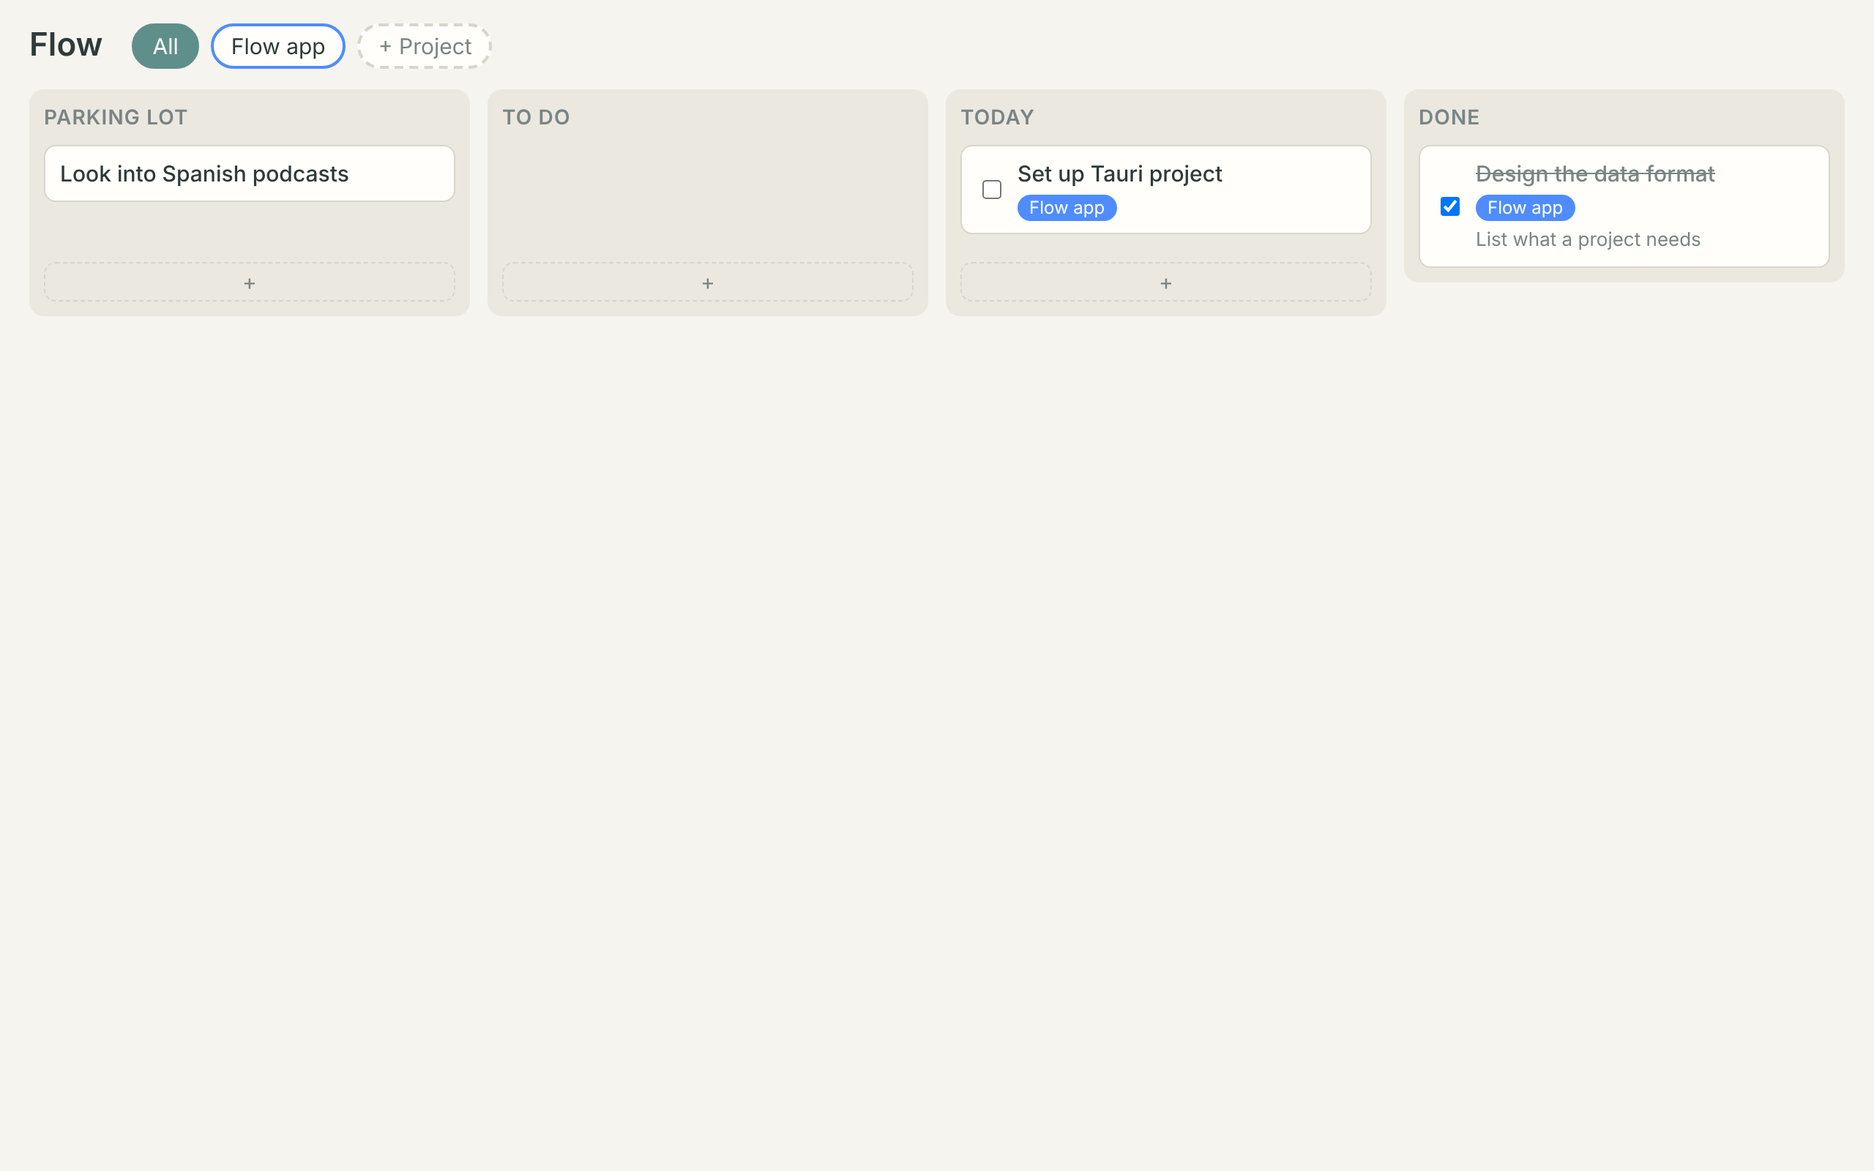
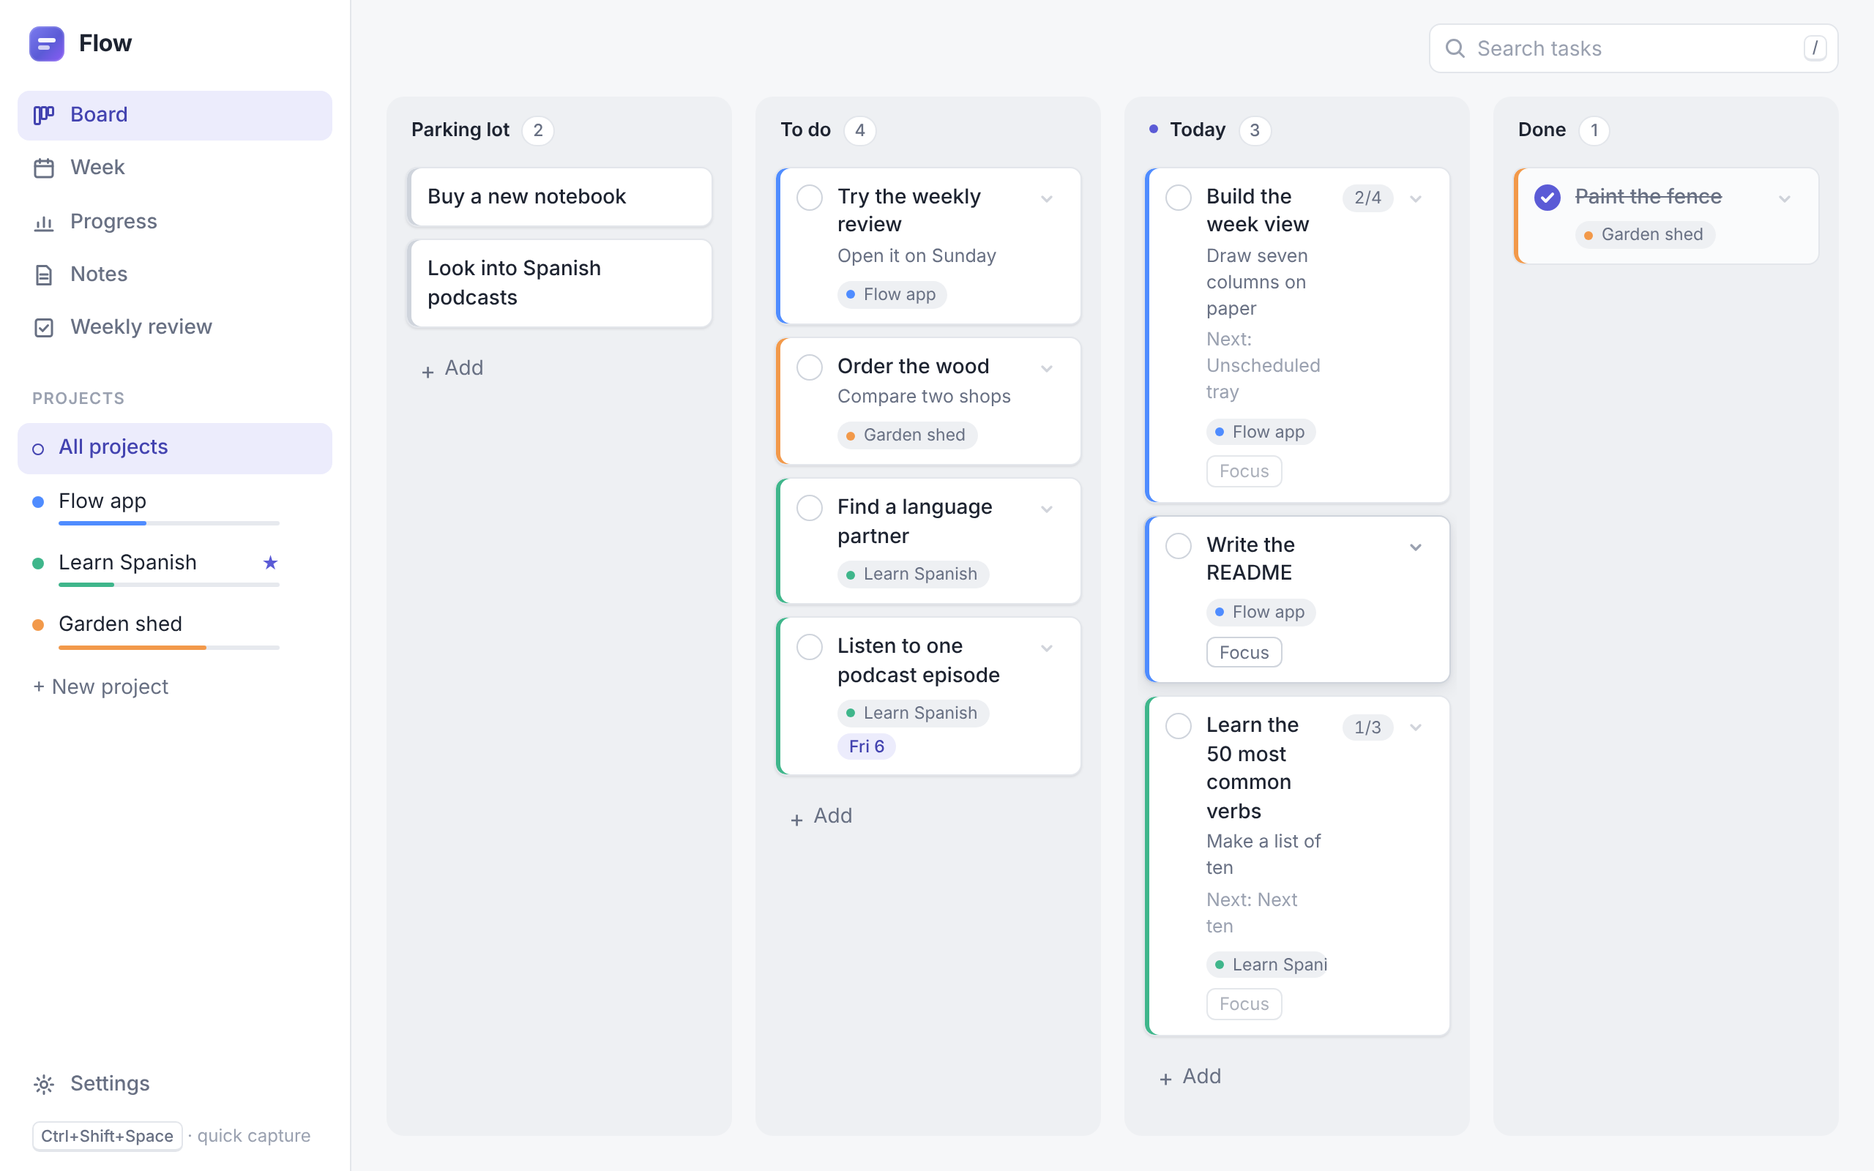
docs: v0.2 README, screenshots, smoke; bump to 0.2.0
Richer browser seed data, README_TEXT documents steps/scheduled, week view tray/title CSS fix.

Claude-Session: https://claude.ai/code/session_01Voacjw55tMHdZutBvqAuuX

diff --git a/src/main.tsx b/src/main.tsx
@@ -2,6 +2,7 @@ import { StrictMode, type ComponentProps } from 'react'
 import { createRoot } from 'react-dom/client'
 import App from './App.tsx'
 import { addInboxItem } from './model/inbox'
+import { addDays, isoWeek, localDate } from './model/dates'
 import FolderSetup from './ui/FolderSetup'
 import QuickCapture from './ui/QuickCapture'
 import { logIssue } from './storage/flowRepo'
@@ -9,46 +10,78 @@ import type { BoardApi } from './ui/Board'
 import { MemoryFileStore, type FileStore } from './storage/fileStore'
 import { MemorySettings } from './ui/settings'
 
-// Browser dev: in-memory store seeded with the spec's example files.
-const store = new MemoryFileStore({
-  'inbox.md': `---
-items:
-  - id: i1
-    text: Look into Spanish podcasts
-    created: 2026-11-03
----
-`,
-  'projects/flow-app.md': `---
-title: Flow app
-status: active
-color: "#4f8cff"
-goal: Build my own ADHD-friendly planner
-created: 2026-11-03
-tasks:
-  - id: t1
-    title: Design the data format
-    status: done
-    first_step: List what a project needs
-    created: 2026-11-03
-    planned: 2026-11-03
-    done: 2026-11-03
-  - id: t2
-    title: Set up Tauri project
-    status: todo
-    created: 2026-11-03
-  - id: t3
-    title: Sketch the week view
-    status: todo
-    first_step: Draw seven columns on paper
-    created: 2026-11-03
-  - id: t4
-    title: Write the README
-    status: todo
-    created: 2026-11-03
----
-Free notes about the project.
-`,
-})
+// Browser dev: in-memory store seeded with example data, relative to today's local date.
+const q = (v: string) => JSON.stringify(v)
+interface SeedTask { id: string; title: string; status: 'todo' | 'today' | 'done'; first?: string; created: string; planned?: string; done?: string; scheduled?: string; steps?: [string, boolean][] }
+const taskYaml = (t: SeedTask) => [
+  `  - id: ${t.id}`,
+  `    title: ${q(t.title)}`,
+  `    status: ${t.status}`,
+  ...(t.first ? [`    first_step: ${q(t.first)}`] : []),
+  `    created: ${t.created}`,
+  ...(t.planned ? [`    planned: ${t.planned}`] : []),
+  ...(t.done ? [`    done: ${t.done}`] : []),
+  ...(t.scheduled ? [`    scheduled: ${t.scheduled}`] : []),
+  ...(t.steps ? ['    steps:', ...t.steps.flatMap(([text, done]) => [`      - text: ${q(text)}`, `        done: ${done}`])] : []),
+].join('\n')
+const projectFile = (title: string, color: string, goal: string, created: string, tasks: SeedTask[], body: string) =>
+  `---\ntitle: ${q(title)}\nstatus: active\ncolor: ${q(color)}\ngoal: ${q(goal)}\ncreated: ${created}\ntasks:\n${tasks.map(taskYaml).join('\n')}\n---\n${body}\n`
+
+function seedFiles(today: string): Record<string, string> {
+  const ago = (n: number) => addDays(today, -n)
+  const created = ago(30)
+  const flowTasks: SeedTask[] = [
+    { id: 't1', title: 'Design the data format', status: 'done', first: 'List what a project needs', created, planned: ago(9), done: ago(9) },
+    { id: 't2', title: 'Set up Tauri project', status: 'done', created, planned: ago(5), done: ago(5) },
+    { id: 't3', title: 'Build the week view', status: 'today', first: 'Draw seven columns on paper', created, planned: today,
+      steps: [['Sketch the layout', true], ['Day columns', true], ['Unscheduled tray', false], ['Drag and drop', false]] },
+    { id: 't4', title: 'Write the README', status: 'todo', created, scheduled: addDays(today, 1) },
+    { id: 't5', title: 'Try the weekly review', status: 'todo', first: 'Open it on Sunday', created },
+  ]
+  const spanishTasks: SeedTask[] = [
+    { id: 't1', title: 'Pick a textbook', status: 'done', created, planned: ago(12), done: ago(12) },
+    { id: 't2', title: 'Learn the 50 most common verbs', status: 'today', first: 'Make a list of ten', created, planned: today,
+      steps: [['Ten verbs', true], ['Next ten', false], ['Next ten', false]] },
+    { id: 't3', title: 'Find a language partner', status: 'todo', created },
+    { id: 't4', title: 'Listen to one podcast episode', status: 'todo', created, scheduled: addDays(today, 2) },
+  ]
+  const shedTasks: SeedTask[] = [
+    { id: 't1', title: 'Measure the corner of the garden', status: 'done', created, planned: ago(2), done: ago(2) },
+    { id: 't2', title: 'Order the wood', status: 'todo', first: 'Compare two shops', created },
+    { id: 't3', title: 'Paint the fence', status: 'done', created, planned: today, done: today },
+  ]
+  const files: Record<string, string> = {
+    'inbox.md': `---\nitems:\n  - id: i1\n    text: Look into Spanish podcasts\n    created: ${today}\n  - id: i2\n    text: Buy a new notebook\n    created: ${ago(1)}\n---\n`,
+    'projects/flow-app.md': projectFile('Flow app', '#4f8cff', 'Build my own ADHD-friendly planner', created, flowTasks,
+      `Keep it small and calm.\n\n## Decisions\n- ${ago(20)}: Build with Tauri, data as Markdown files.\n- ${ago(8)}: No streaks.`),
+    'projects/learn-spanish.md': projectFile('Learn Spanish', '#3fb68b', 'Hold a 10 minute conversation by spring', created, spanishTasks, 'Twenty minutes a day beats two hours on Sunday.'),
+    'projects/garden-shed.md': projectFile('Garden shed', '#f2994a', 'Build a small shed before winter', created, shedTasks, ''),
+    'notes.md': `# General notes\n\nIdeas to come back to:\n\n- A calmer morning routine\n- Ask Sam about the allotment\n`,
+  }
+  // ~4 weeks of history: done entries and focus sessions (deterministic pattern, relative to today).
+  const titles: [string, string, string][] = [
+    ['flow-app/t1', 'Design the data format', 'Flow app'], ['flow-app/t2', 'Set up Tauri project', 'Flow app'],
+    ['learn-spanish/t1', 'Pick a textbook', 'Learn Spanish'], ['garden-shed/t1', 'Measure the corner of the garden', 'Garden shed'],
+  ]
+  for (let i = 0; i <= 28; i++) {
+    const date = ago(i)
+    const count = i === 0 ? 1 : [0, 2, 1, 3, 0, 4, 1, 2, 5, 1, 0, 2, 3, 6][(i * 5) % 14]
+    const minutes = i === 0 ? [25] : [25, 25, 45, 15, 25].slice(0, (i * 3) % 4)
+    const done = Array.from({ length: count }, (_, k) => titles[(i + k) % titles.length])
+    if (i === 0) done.splice(0, 1, ['garden-shed/t3', 'Paint the fence', 'Garden shed'])
+    if (done.length === 0 && minutes.length === 0) continue
+    const lines = ['---', `date: ${date}`]
+    if (done.length) lines.push('done:', ...done.flatMap(([ref, title, project]) => [`  - ref: ${ref}`, `    title: ${q(title)}`, `    project: ${q(project)}`]))
+    if (minutes.length) lines.push('focus:', ...minutes.flatMap((m, k) => [`  - ref: ${titles[(i + k) % titles.length][0]}`, `    title: ${q(titles[(i + k) % titles.length][1])}`, `    project: ${q(titles[(i + k) % titles.length][2])}`, `    minutes: ${m}`]))
+    lines.push('---', i === 1 ? 'Slow start, good finish.' : '')
+    files[`days/${date}.md`] = lines.join('\n') + '\n'
+  }
+  files[`reviews/${isoWeek(ago(7))}.md`] =
+    `---\nweek: ${isoWeek(ago(7))}\nfocus_project: learn-spanish\nintention: Twenty minutes of Spanish every day\n---\nGood momentum on the app. Spanish slipped midweek; short sessions work better for me.\n`
+  return files
+}
+
+const store = new MemoryFileStore(seedFiles(localDate()))
 
 const rootEl = document.getElementById('root')!
 

diff --git a/src/ui/board.css b/src/ui/board.css
@@ -445,7 +445,7 @@ input.quick-capture, input.quick-capture:focus {
   transition: background var(--dur) var(--ease), color var(--dur) var(--ease);
 }
 .icon-btn:hover { background: var(--surface-hover); color: var(--text); }
-.week-board { flex: 1; min-height: 0; display: grid; grid-template-columns: 240px minmax(0, 1fr); gap: var(--space-3); }
+.week-board { flex: 1; min-height: 0; display: grid; grid-template-columns: 200px minmax(0, 1fr); gap: var(--space-3); }
 .week-days { min-width: 0; min-height: 0; display: grid; grid-template-columns: repeat(7, minmax(0, 1fr)); gap: var(--space-2); }
 .week-col {
   display: flex; flex-direction: column; min-width: 0; min-height: 0; padding: var(--space-2) var(--space-1) var(--space-1);
@@ -464,12 +464,12 @@ input.quick-capture, input.quick-capture:focus {
   overflow-y: auto; display: flex; flex-direction: column; gap: 6px;
 }
 .card.week-card { align-items: center; gap: 6px; padding: 7px 8px 7px 11px; font-size: 13px; }
-.week-card-title { flex: 1; min-width: 0; font-weight: 500; line-height: 1.35; overflow-wrap: anywhere; }
+.week-card-title { flex: 1; min-width: 0; font-weight: 500; line-height: 1.35; overflow-wrap: break-word; hyphens: auto; }
 .week-card .dot { background: var(--project); }
 .card.week-card.is-placeholder { opacity: 0.4; }
 .week-done {
   display: flex; align-items: flex-start; gap: 6px; padding: 4px 6px; font-size: 12px; line-height: 1.35;
-  color: var(--text-muted); overflow-wrap: anywhere;
+  color: var(--text-muted); overflow-wrap: break-word;
 }
 .week-done svg { flex: none; margin-top: 2px; color: var(--accent); opacity: 0.8; }
 .week-done span { min-width: 0; text-decoration: line-through; text-decoration-color: var(--text-faint); }

diff --git a/src/storage/flowRepo.ts b/src/storage/flowRepo.ts
@@ -50,6 +50,12 @@ tasks:
     title: Set up Tauri project
     status: todo
     created: 2026-11-03
+    scheduled: 2026-11-06 # planned for this day (see below)
+    steps:                # checklist inside the task
+      - text: Install the prerequisites
+        done: true
+      - text: Run the app once
+        done: false
 ---
 Free notes about the project.
 
@@ -61,7 +67,13 @@ Free notes about the project.
   the title is renamed, so references stay valid.
 - Task ids are unique within a project (t1, t2, ... incrementing). The global task
   reference is <slug>/<id>, e.g. flow-app/t2.
-- Optional task fields (first_step, planned, done) are omitted when empty.
+- Optional task fields (first_step, planned, done, scheduled, steps) are omitted when empty.
+- steps is a list of { text, done } checklist items. Ticking every step does not complete
+  the task; the task's own status does that. Unknown fields on steps are kept.
+- scheduled is a date the task is planned for (set in the Week view or the task's "Plan for"
+  field). When that day arrives (or has passed), Flow moves a To do task of an active project
+  into Today by itself (status today, planned set) and removes scheduled. Tasks of paused,
+  done or archived projects keep waiting with their date.
 - The body (notes and ## Decisions) is free text. Flow preserves it unchanged.
 
 ## Parking lot: inbox.md

diff --git a/README.md b/README.md
@@ -1,11 +1,72 @@
 # Flow
 
-Flow is a small desktop planner for one person. It has a single board with four columns:
-**Parking lot** (loose thoughts), **To do**, **Today** (pick up to 3) and **Done**. You drag
-cards between columns and tick them off. Everything you enter is stored as plain Markdown
-files in a folder you choose, so you (or an AI assistant) can read and edit them any time.
+Flow is a calm desktop planner for one person, built to help you stay with one thing at a time.
+Everything you enter is stored as plain Markdown files in a folder you choose, so you (or an
+AI assistant) can read and edit them any time. Nothing is sent anywhere unless you press one
+of the Claude buttons (see below).
 
 ![Flow board](docs/screenshot.png)
+
+## What you can do
+
+- **Board.** Four columns: **Parking lot** (loose thoughts), **To do**, **Today** and **Done**.
+  Drag cards between columns and tick them off.
+- **Focus on one project.** Click a project in the sidebar to see only its cards, with its goal,
+  a progress bar and how much you finished this week. Edit the goal and the project notes in
+  place, and add short dated decisions.
+- **Focus timer.** Press **Focus** on a Today card to start a quiet 15, 25 or 45 minute timer.
+  When it ends, nothing pops up; the bar at the top just offers "Mark done" or "Another round".
+  Finished sessions are logged so you can see your focus time.
+- **Checklists.** Break a task into steps. The card shows `2/5` and the next step to do.
+- **Plan your week.** The **Week** view has seven day columns and an Unscheduled tray. Drag a
+  task onto a day. When that day comes, the task moves to Today by itself.
+- **Weekly review.** A short guided review: what you finished, what is unfinished (keep, push to
+  next week, send back or delete), a project to focus on next week, and a few words of reflection.
+  It is saved in your folder and the chosen project gets a star in the sidebar next week.
+- **Progress.** This week by day, a year heatmap of finished tasks, progress per project and a
+  note for today. There are no streaks: Flow never counts consecutive days.
+- **Notes.** A big, quiet place for general notes and for each project's notes.
+- **Claude built in (optional).** See the section below.
+- **Light and dark** theme, following your system.
+
+![Week view](docs/screenshot-week.png)
+
+![Progress view](docs/screenshot-progress.png)
+
+![Dark theme](docs/screenshot-dark.png)
+
+## Keyboard shortcuts
+
+They work when you are not typing in a text field.
+
+| Key | What it does |
+| --- | --- |
+| `/` | Search tasks |
+| `n` | New task in To do |
+| `b` | Board |
+| `w` | Week |
+| `p` | Progress |
+| `o` | Notes |
+| `r` | Weekly review |
+| Ctrl+Shift+Space | Quick capture into the Parking lot, from any app (Cmd+Shift+Space on Mac) |
+
+## Claude built in
+
+Flow can ask Claude (made by Anthropic) to **review your week** and to **plan tomorrow**. It is
+optional and off until you add a key.
+
+1. Create an account at https://console.anthropic.com and make an API key there (usage is billed
+   by Anthropic, separately from Flow).
+2. In Flow, open **Settings** (bottom of the sidebar), paste the key and press Save. You can also
+   choose the model.
+3. Use **Review my week** or **Plan tomorrow** in the Progress view or in the last step of the
+   weekly review.
+
+What it sends: only when you press one of those buttons, Flow sends the data shown in that
+request to Anthropic: your last few days (finished tasks, focus minutes, day notes), your active
+projects with goals and open tasks, and your general notes (cut to 2,000 characters). The key is
+kept in Flow's own settings on this computer and is never written into your Flow folder. Without
+a key you can still press **Copy AI review** and paste the text into any AI yourself.
 
 ## Install on Windows (no setup needed)
 
@@ -16,8 +77,8 @@ files in a folder you choose, so you (or an AI assistant) can read and edit them
 
 To update, install the newer `.exe` over the old one. Your tasks stay in your Flow folder.
 
-**Making a new release (for the maintainer):** bump `version` in `package.json` and
-`src-tauri/tauri.conf.json`, commit, then push a tag such as `v0.2.0`
+**Making a new release (for the maintainer):** bump `version` in `package.json`,
+`src-tauri/tauri.conf.json` and `src-tauri/Cargo.toml`, commit, then push a tag such as `v0.2.0`
 (`git tag v0.2.0 && git push origin v0.2.0`). The GitHub Actions workflow
 `.github/workflows/release.yml` builds the installer and attaches it to the release.
 
@@ -47,13 +108,14 @@ npx tauri build
 ```
 The installer appears under `src-tauri/target/release/bundle/`.
 
-To try the board quickly in a web browser (no desktop app; data lives only in memory and is
+To try the board quickly in a web browser (no desktop app; it shows example data that lives only in memory and is
 lost on reload), run `npm run dev` and open http://localhost:1420.
 
 ## What to check by hand
 
-Automated tests cover the logic, and a browser smoke test (`node scripts/smoke.mjs`) covers
-drag and drop, but these only work in the real desktop app:
+Automated tests cover the logic, and a browser smoke test (`node scripts/smoke.mjs`, with
+`npm run dev` running; it also refreshes the screenshots) covers drag and drop and the main
+views, but these only work in the real desktop app:
 
 - **Quick capture window:** press Ctrl+Shift+Space (Cmd+Shift+Space on Mac) from any app. A
   small window should appear; type a thought, press Enter, and it should land in the Parking
@@ -67,10 +129,19 @@ drag and drop, but these only work in the real desktop app:
 
 ## What the data folder looks like
 
-`inbox.md` (the Parking lot), `projects/<slug>.md` (one file per project, tasks in the YAML
-header, free notes below), `days/YYYY-MM-DD.md` (what was planned and finished each day), a
-`README.md` describing the format in full (Flow writes it on first run), and
-`flow-issues.log` (files Flow could not read). Dates are YYYY-MM-DD in local time.
+```
+Flow/
+  README.md          describes the format in full (Flow writes it on first run)
+  inbox.md           the Parking lot
+  notes.md           general notes (created when you first write some)
+  projects/<slug>.md one file per project: tasks (with steps and planned dates) in the
+                     YAML header, project notes and decisions below
+  days/YYYY-MM-DD.md what you planned and finished each day, plus focus sessions
+  reviews/YYYY-Www.md one file per weekly review
+  flow-issues.log    files Flow could not read (Flow never overwrites them)
+```
+
+Dates are YYYY-MM-DD in local time. Your Claude key is not in this folder.
 
 ## Ask an AI about your week
 

diff --git a/CLAUDE.md b/CLAUDE.md
@@ -11,14 +11,24 @@ Data is Markdown files with YAML frontmatter in a user-chosen folder. See
 - `npm run dev` starts Vite on port 1420 (browser mode).
 - `npm run app:dev` runs the desktop app via Tauri.
 - `node scripts/smoke.mjs` is a Playwright smoke test with real pointer drag-and-drop
-  (needs `npm run dev` running; writes `docs/screenshot.png`). jsdom cannot drive dnd-kit.
+  across Board, Week, Progress, Notes, Review, Settings (needs `npm run dev` running; writes
+  `docs/screenshot*.png`: board, dark, progress, week). jsdom cannot drive dnd-kit.
 
 ## Structure
 
 - `src/model/` pure logic over `FlowData` (tasks, projects, inbox, board columns, dates, ids). No I/O.
+  v0.2 modules: `focus` (log timer sessions into day files), `stats` (week, heatmap, project
+  progress), `review` (Copy AI review prompt text), `notes` (general notes), `notes-day` (today's
+  note), `steps` (task checklists), `schedule` (scheduled dates, `promoteScheduled`, `weekPlan`),
+  `review-week` (weekly review files, focus project), `plan` (apply Claude's suggested tasks).
 - `src/storage/` Markdown/frontmatter parsing, `FileStore` interface (`MemoryFileStore`,
   `TauriFileStore`), and `flowRepo` (load/save, README text, issue log).
+- `src/ai/` Claude client (`claude.ts`, lazy-loaded `@anthropic-ai/sdk`), prompt builders
+  (`prompts.ts`) and the dev-only canned client (`fake.ts`).
 - `src/ui/` React components (Board, Column, Card, quick capture, folder setup) and `useFlow`.
+  Board.tsx is the shell; views: `BoardView`, `WeekView`, `ProgressView`, `NotesView`,
+  `WeeklyReview`, `SettingsPanel`; plus `Sidebar`, `ProjectHeader`, `NotesPanel`, `FocusBar` +
+  `useFocus`, `SearchBox`, `AiPanel`; tokens and themes in `theme.css`, styles in `board.css`.
 - `src/main.tsx` picks the shell: browser or Tauri (main window / capture window).
 - All app logic is TypeScript; Rust (`src-tauri`) only registers plugins.
 
@@ -30,3 +40,18 @@ Data is Markdown files with YAML frontmatter in a user-chosen folder. See
 - Dates are local-time ISO `YYYY-MM-DD` (never `toISOString().slice(0, 10)`).
 - Slugs are derived once at creation and never change on rename.
 - Browser dev (`npm run dev`) uses `MemoryFileStore` seeded with example data; nothing persists.
+- Day `focus` list: entries `ref, title, project, minutes`; omitted when empty; sessions under
+  1 minute are not logged; each session is logged once. Timer state is in memory only.
+- Task `steps: [{text, done}]` and `scheduled: YYYY-MM-DD` are omitted when empty; unknown fields
+  on steps are preserved. Ticking the last step never completes the task.
+- Decisions are `- YYYY-MM-DD: <text>` lines, last in the `## Decisions` section of the project body.
+- Promotion is active-only: To do tasks with `scheduled <= today` in active projects move to Today
+  on load/date change and lose `scheduled`; paused/done/archived projects keep their date.
+- Weekly reviews live in `reviews/YYYY-Www.md` (ISO week; `week`, `focus_project`, `intention`,
+  body = reflection). The focus project applies to the following week (review W-1, fallback W).
+- No streaks anywhere: nothing counts consecutive days.
+- The Claude API key and model live in local app settings only, never in the Flow folder. AI
+  buttons send data only on press; errors show as one calm line in the AI panel.
+- Dev-only `?fakeAi=1` (browser dev) swaps in a canned Claude client; never in production builds.
+- Shortcuts (`/ n b w p o r`) fire only when no input, textarea or select has focus.
+- Browser seed data in `src/main.tsx` is generated relative to today's local date.
